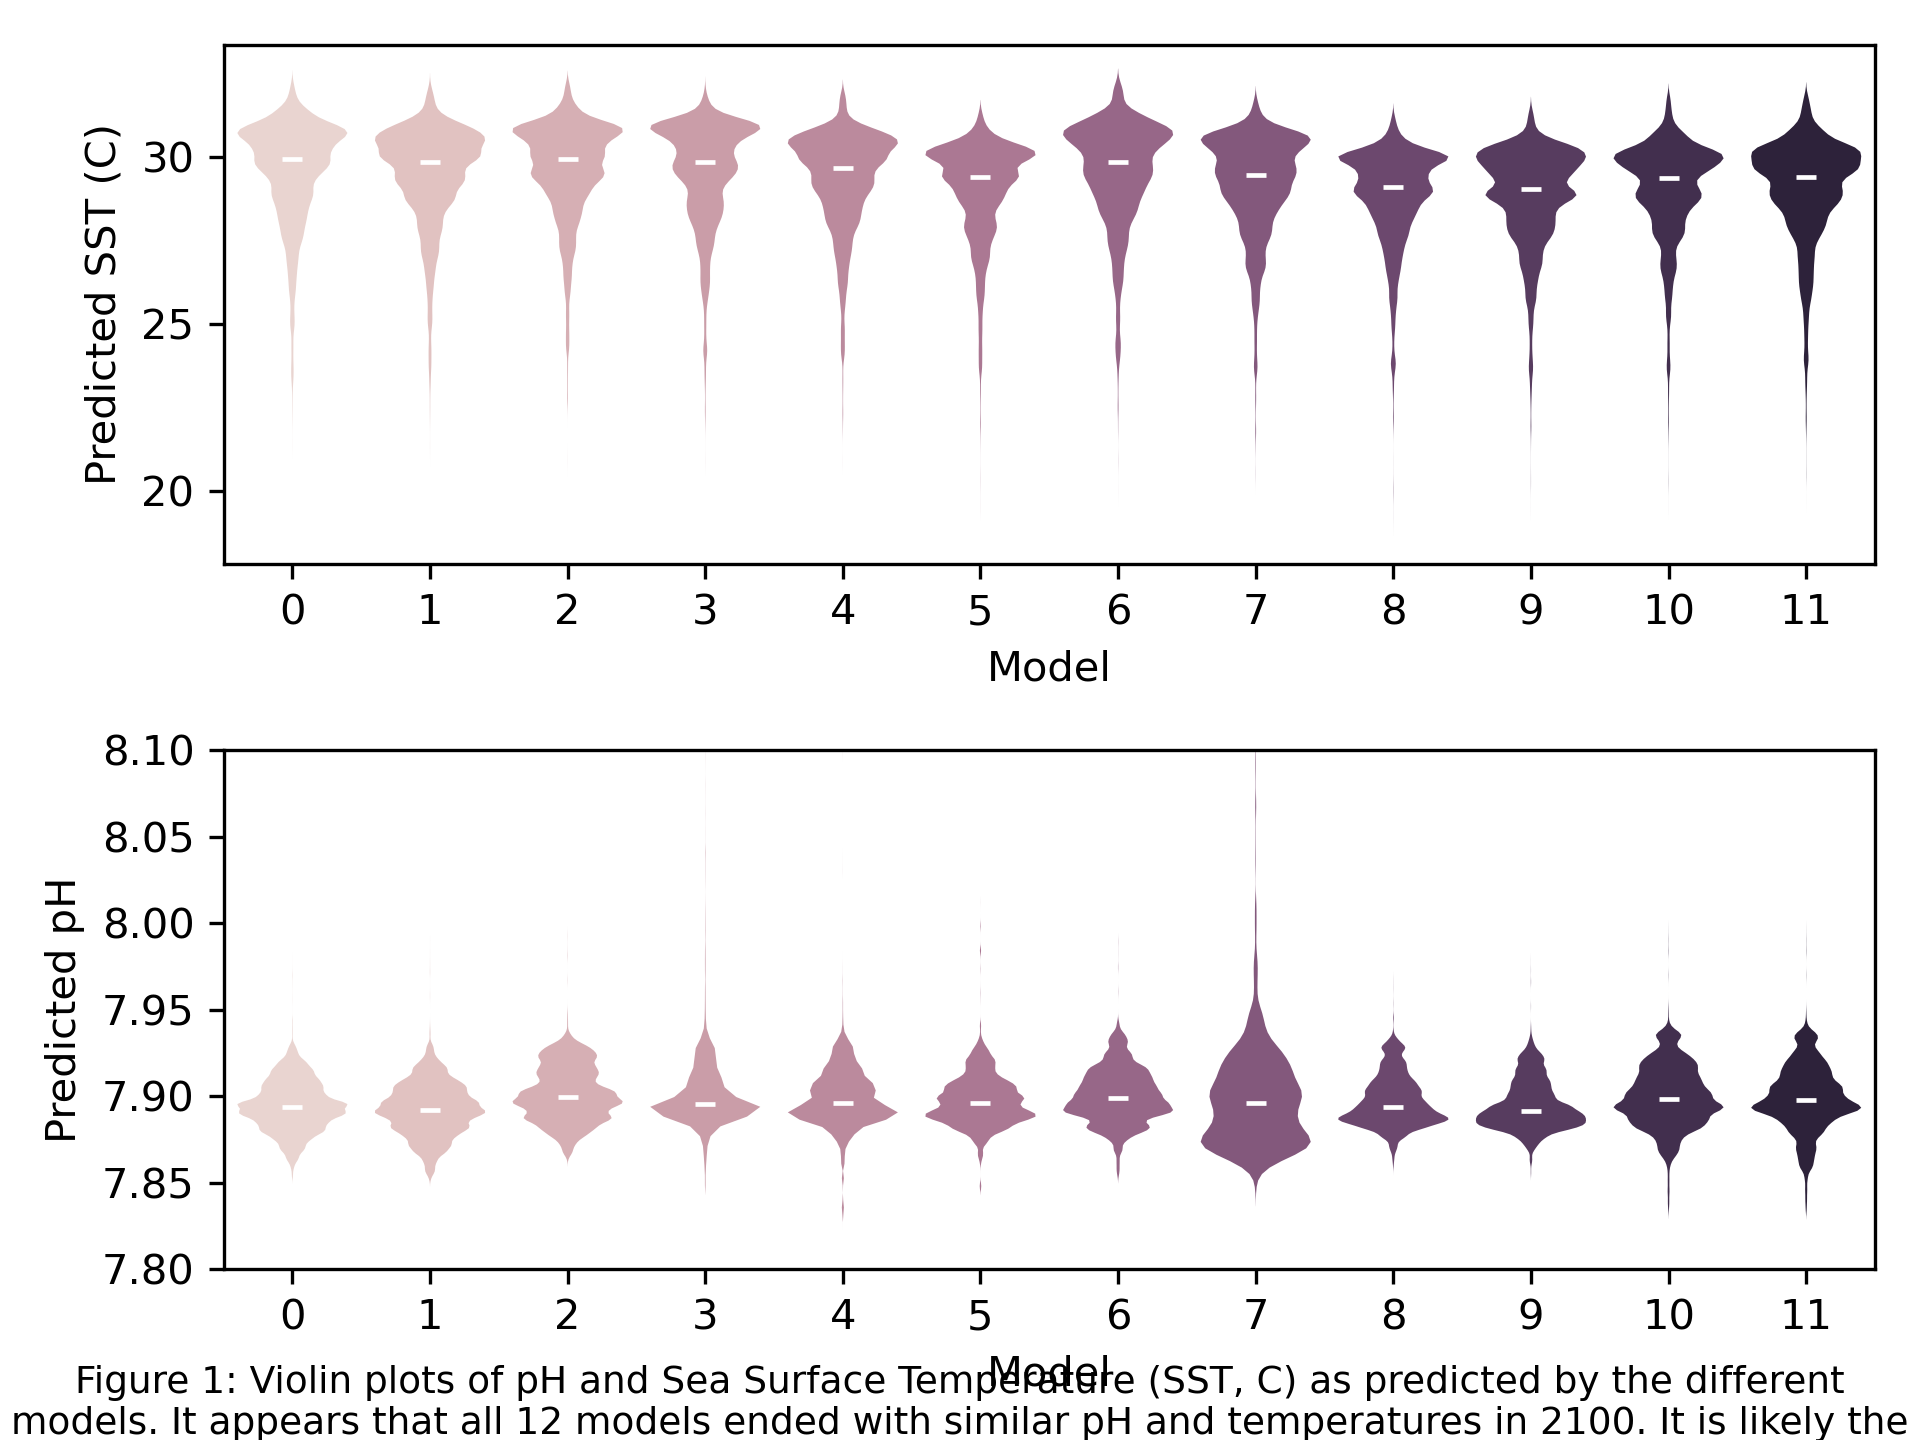
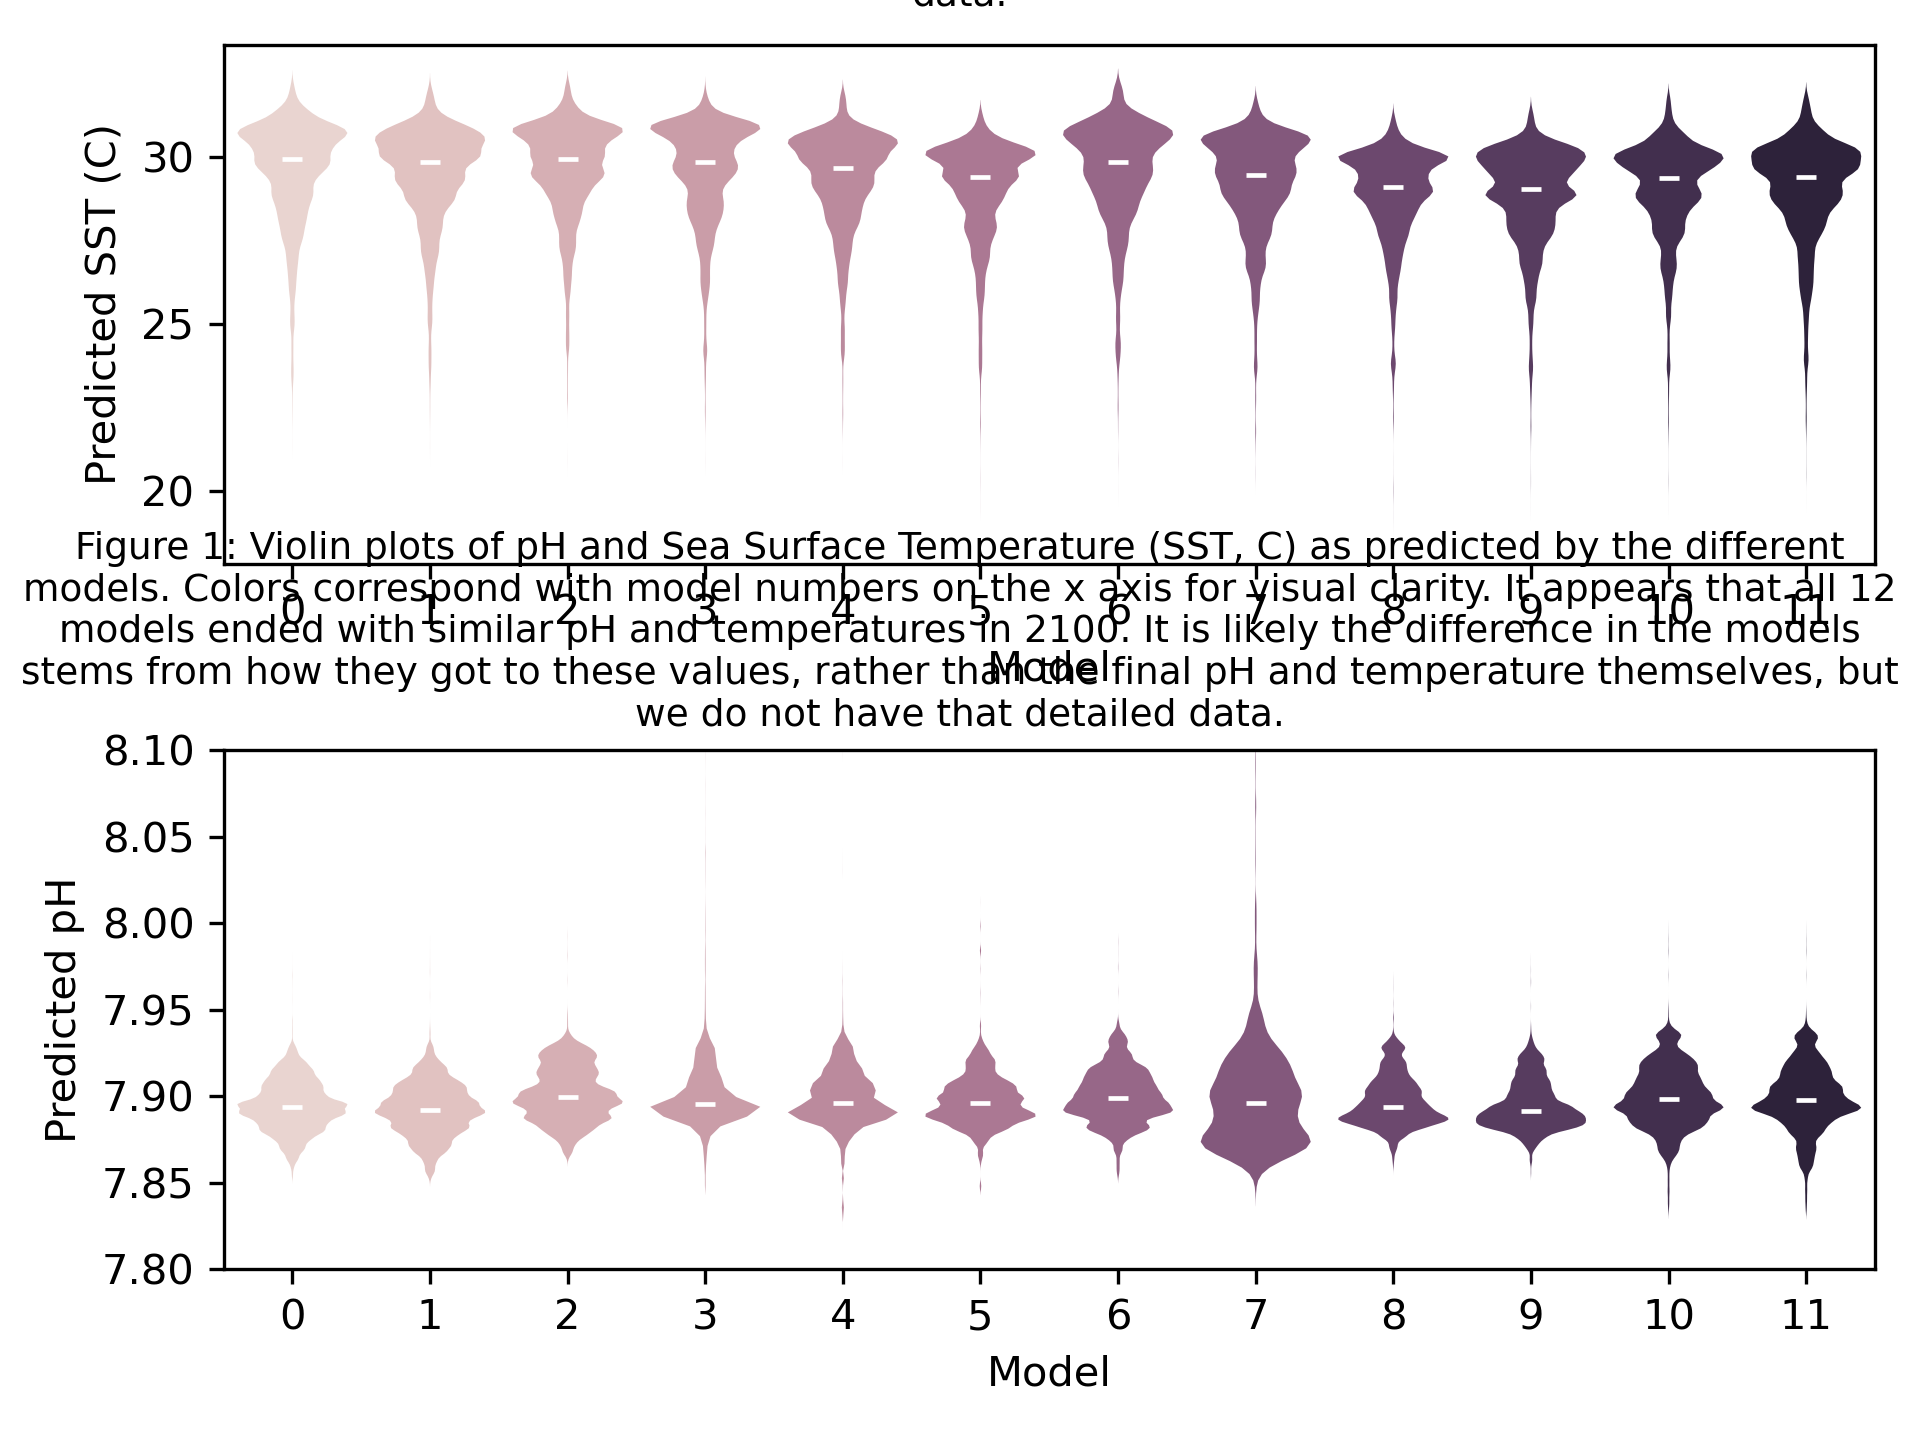
figure 2 done (except caption)

Changed region(s): [[0.0312, 0.375, 0.9688, 0.5], [0.0, 0.9375, 1.0, 1.0]]

diff --git a/Final_format.py b/Final_format.py
@@ -50,9 +50,48 @@ plt.ylabel("Predicted pH")
 #based on these violin plots the final 2100 values are all pretty similar. 
     # Must be the way it tracks over the years that makes the models different but we don't have that dat
 #fig1.subplots_adjust(bottom=0.4) #make room for caption
-fig1.text(0.5, 1, 'Figure 1: Violin plots of pH and Sea Surface Temperature (SST, C) as predicted by the different models. Colors correspond with model numbers on the x axis for visual clarity. It appears that all 12 models ended with similar pH and temperatures in 2100. It is likely the difference in the models stems from how they got to these values, rather than the final pH and temperature themselves, but we do not have that detailed data.',
+fig1.text(0.5, -1, 'Figure 1: Violin plots of pH and Sea Surface Temperature (SST, C) as predicted by the different models. Colors correspond with model numbers on the x axis for visual clarity. It appears that all 12 models ended with similar pH and temperatures in 2100. It is likely the difference in the models stems from how they got to these values, rather than the final pH and temperature themselves, but we do not have that detailed data.',
      ha='center', wrap=True, fontsize = 9)
 plt.savefig("SST_pH.png",dpi=300)
+fig1.clear()
 
 #**************FIX FIGURE CAPTION^^^**********************
 
+###################################
+#      FIGURE 2: Latitude          #
+####################################
+
+#getting mean percent cover for each geographic coordinate (https://stackoverflow.com/questions/75480113/python-using-pandas-to-take-average-of-same-lon-lat-value-pairs)
+lat_tup = (df1['latitude'])
+lon_tup = (df1['longitude'])
+cover_tup = (df1['coral_change_percent'])
+
+df2_work = {
+    'lat': lat_tup,
+    'lon': lon_tup,
+    'cover': cover_tup
+}
+df2 = pd.DataFrame(df2_work)
+
+# group by pairs of latitude and longitude and calculate the mean cover value for each pair
+df2_groups = df2.groupby([df2['lat'], df2['lon']])['cover'].mean().reset_index()
+df2_groups.columns = ['lat', 'lon', 'cover']
+
+# print the resulting dataframe
+print(df2_groups)
+
+
+#A plot showing the predicted percentage change in coral cover over the 21st century (averaged across simulations) as a function of latitude.
+#fig2, ax3 = plt.subplots()
+fig2 = plt.figure()
+ax3 = sns.color_palette("rocket_r", as_cmap=True)
+ax3 = sns.scatterplot(data=df2_groups, x='lat', y='cover', hue='cover',legend=False, palette = "rocket_r", edgecolor='none')
+ax3.set_xlim(-40,40)
+plt.axhline(y=0, color='black', linestyle='--') #shows zero change in coral cover
+plt.xlabel("Latitude")
+plt.ylabel("Percent Change of Coral Cover")
+#plt.title("Spatial Change in Coral Cover 2020-2100")
+fig2.text(0.5,0.5, 'Figure 2: Compares the predicted percent change of coral cover (averaged across models) with latitude. The horizontal line at zero is where there was is no predicted change in coral cover, generally around 30 degrees latitude. Closer to the equator we see high loses of coral cover (negative percentages).',
+     ha='center', wrap=True, fontsize = 9)
+plt.savefig("lat_coral",dpi=300)
+fig2.clear()
